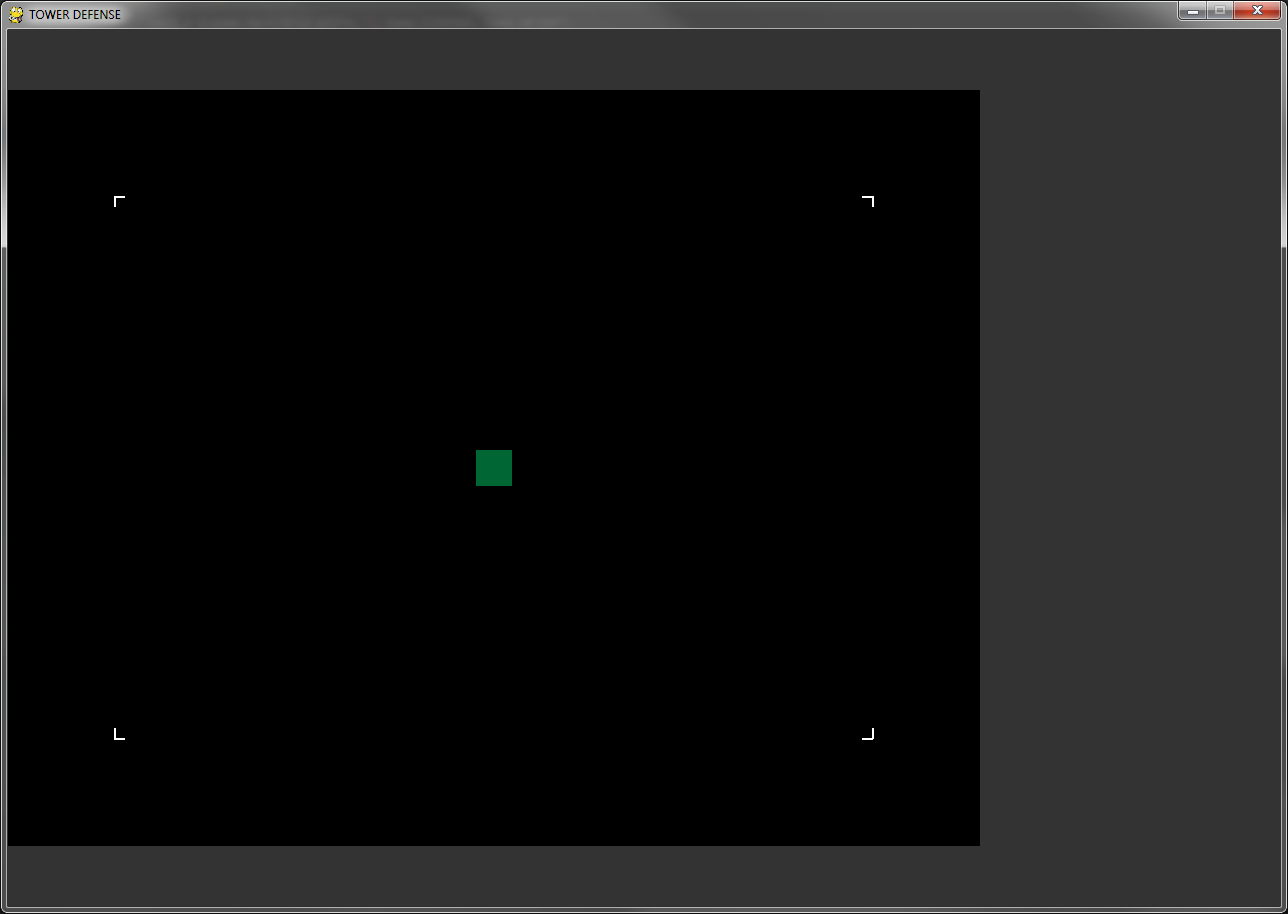
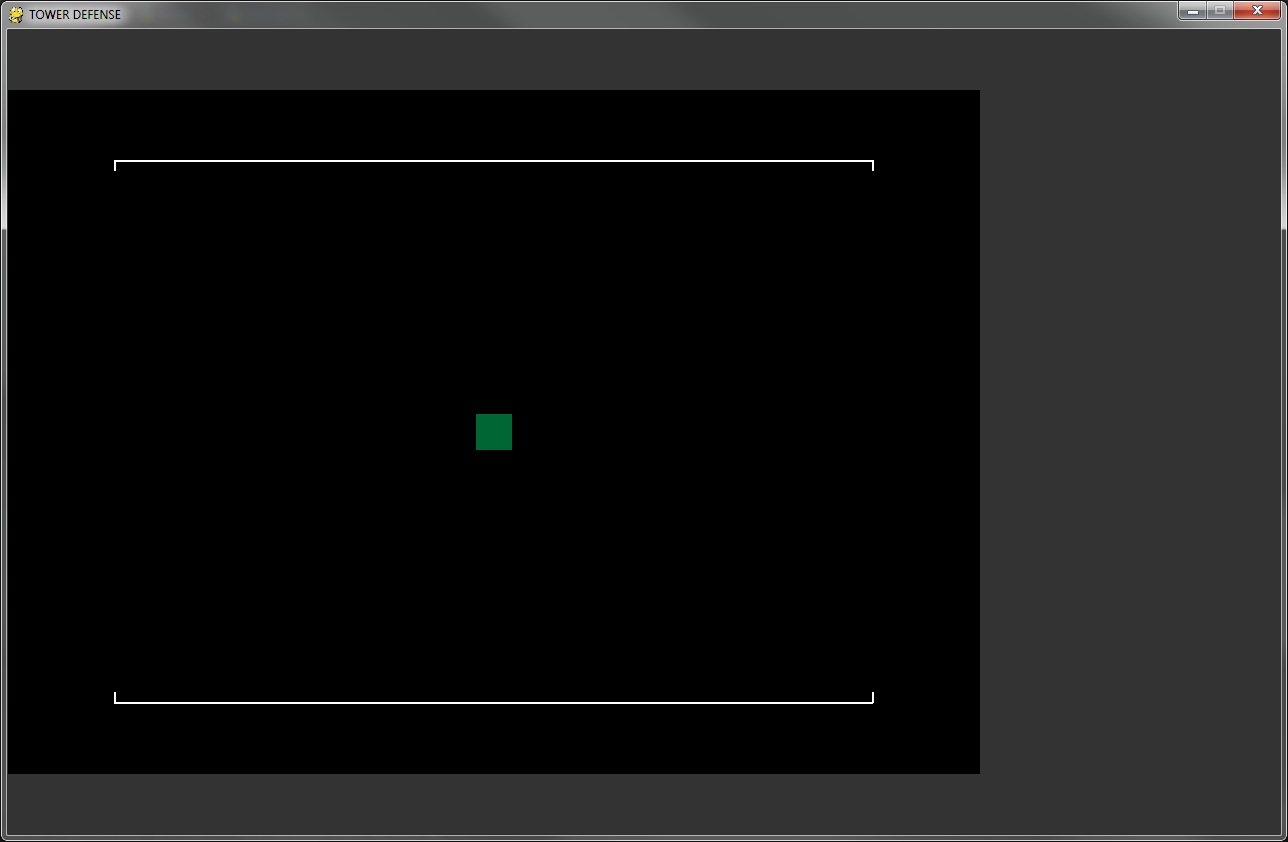
01.24.17

diff --git a/game.py b/game.py
@@ -20,7 +20,7 @@ import sys
 
 class Game(object):
 
-    FPS = 20
+    FPS = 30
 
     HEADER =  60
     FOOTER =  60
@@ -134,13 +134,11 @@ class Game(object):
         y4 = c4.y + Cell.DIM
         line = 10
 
-        pygame.draw.line(self.window, h_FFFFFF, (x1, y1), (x1 + line, y1), 2)
+        pygame.draw.line(self.window, h_FFFFFF, (x1, y1), (x3, y3), 2)
+        pygame.draw.line(self.window, h_FFFFFF, (x2, y2), (x4, y4), 2)
         pygame.draw.line(self.window, h_FFFFFF, (x1, y1), (x1, y1 + line), 2)
-        pygame.draw.line(self.window, h_FFFFFF, (x2, y2), (x2 + line, y2), 2)
         pygame.draw.line(self.window, h_FFFFFF, (x2, y2), (x2, y2 - line), 2)
-        pygame.draw.line(self.window, h_FFFFFF, (x3, y3), (x3 - line, y3), 2)
         pygame.draw.line(self.window, h_FFFFFF, (x3, y3), (x3, y3 + line), 2)
-        pygame.draw.line(self.window, h_FFFFFF, (x4, y4), (x4 - line, y4), 2)
         pygame.draw.line(self.window, h_FFFFFF, (x4, y4), (x4, y4 - line), 2)
 
         index = self.grid.pointToIndex(self.mouse)

diff --git a/grid.py b/grid.py
@@ -20,7 +20,7 @@ class Grid(object):
     ADJACENT = ((-1, -1), (-1, 0), (-1, 1), (0, -1), (0, 1), (1, -1), (1, 0), (1, 1))
 
     BASE =    (21, 15)
-    SPACE =   (3, 3)
+    SPACE =   (3, 2)
     CELLS =   (BASE[0] + (SPACE[0] * 2), BASE[1] + (SPACE[1] * 2))
 
     CORNERS = \

diff --git a/README.md b/README.md
@@ -13,4 +13,4 @@ tower defense game
 - update cell and grid init
 - basic build boundaries
 - point / index conversions
-- test pygame mouse motion
+- test pygame mouse events
